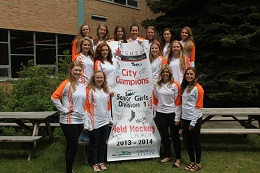
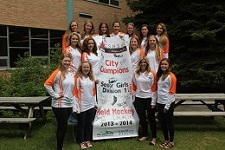
resized photos for spotlight

diff --git a/b829/aberhart/index.htm b/b829/aberhart/index.htm
@@ -67,7 +67,7 @@
     Both our junior and senior girls field hockey teams wrapped up their seasons last month. The senior girls team had an exciting season.  In the final they went to extra time and extra penalty shots to win their city championship!!  Way to go girls. The junior girls also captured the title with a thrilling 2-1 victory. These are our EIGHT and NINTH banner this year!
                         </div>
 						<div>
-							<img src="/b829/aberhart/departments/athletics/teams/volleyball-jr-boys.jpg" alt="volleyball-jr-boys" style="float:left; padding-right:5px;"/>
+							<img src="/b829/aberhart/main/news/volleyball-jr-boys.jpg" alt="volleyball-jr-boys.jpg" style="float:left; padding-right:5px;"/>
 							<h3 class="centerAlign">Volleyball Teams are City Champions</h3>
 							<p>Both the Junior Boys and the Junior Girls teams recently captured the city championships. Congratulations to all players, coaches, and parents!</p>
 						</div>
@@ -111,7 +111,6 @@
 								<!-- These should be in "Headline format," that is, short, informative, and eye-catching. -->
 								<!-- Include only information that is current (i.e. events that are ongoing; limit of four -->
 								<ul class="list">
-									<li><a href="/b829/aberhart/main/news/book-return.html">Book Return</a></li>
 									<li><a href="/b829/aberhart/main/news/laptop-letter.html">Software Purchase Opportunity</a> - <a href="/b829/aberhart/main/news/laptop-flyer.html">Flyer</a></li>
 									<li><a href="/b829/aberhart/main/news/homelogic.html">Home Logic Parent letter</a></li>
 									<li><a href="http://www.cbeinternational.ca/homestay_host.htm">Info for hosting international students (CBE website)</a></li>
